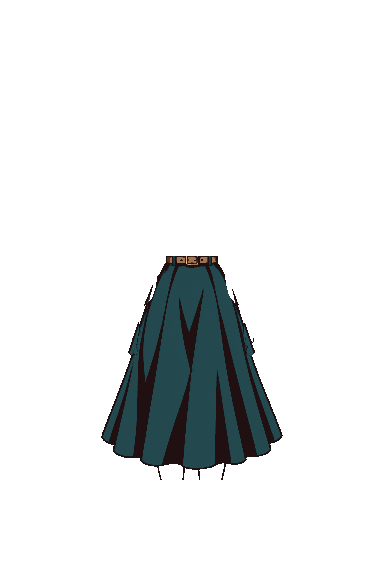
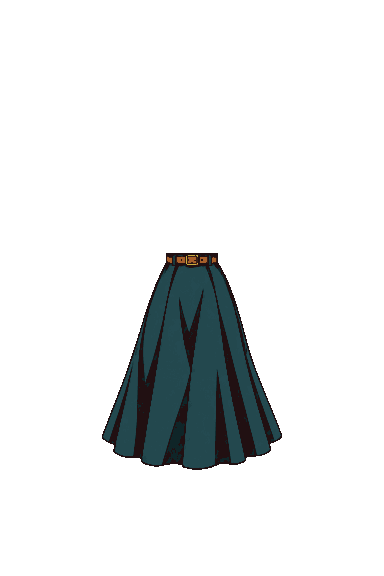
36番のスカートを分解図から作り直し（横のギザギザをなくした）、バレッタを前髪の下の層に

diff --git a/app/sw.js b/app/sw.js
@@ -1,6 +1,6 @@
 // オフライン対応：アプリ本体と絵を端末に保存して、電波がなくても開けるようにする
 // 版を上げるときは VERSION を変える（古い保存は消える）
-const VERSION = 'tabiquest-v0.10.214';
+const VERSION = 'tabiquest-v0.10.215';
 const CORE = [
   './', 'index.html', 'manifest.json', 'css/app.css', 'vendor/three.r128.min.js',
   'js/main.js', 'js/card.js', 'js/places.js', 'js/photo_places.js', 'js/plain_places.js', 'js/store.js', 'js/geo.js', 'js/conditions.js', 'js/ui.js', 'js/arrival.js', 'js/zukan.js', 'js/debug.js', 'js/mihon.js',

diff --git a/app/js/main.js b/app/js/main.js
@@ -50,7 +50,7 @@ import * as scramble from './scenes/scramble.js';
 import * as kamakura from './scenes/kamakura.js';
 import * as photo from './scenes/photo.js';
 
-export const VERSION = '0.10.214';
+export const VERSION = '0.10.215';
 engine.register('minatomirai', minatomirai.build);
 engine.register('chukagai', chukagai.build);
 engine.register('tokyotower', tokyotower.build);
